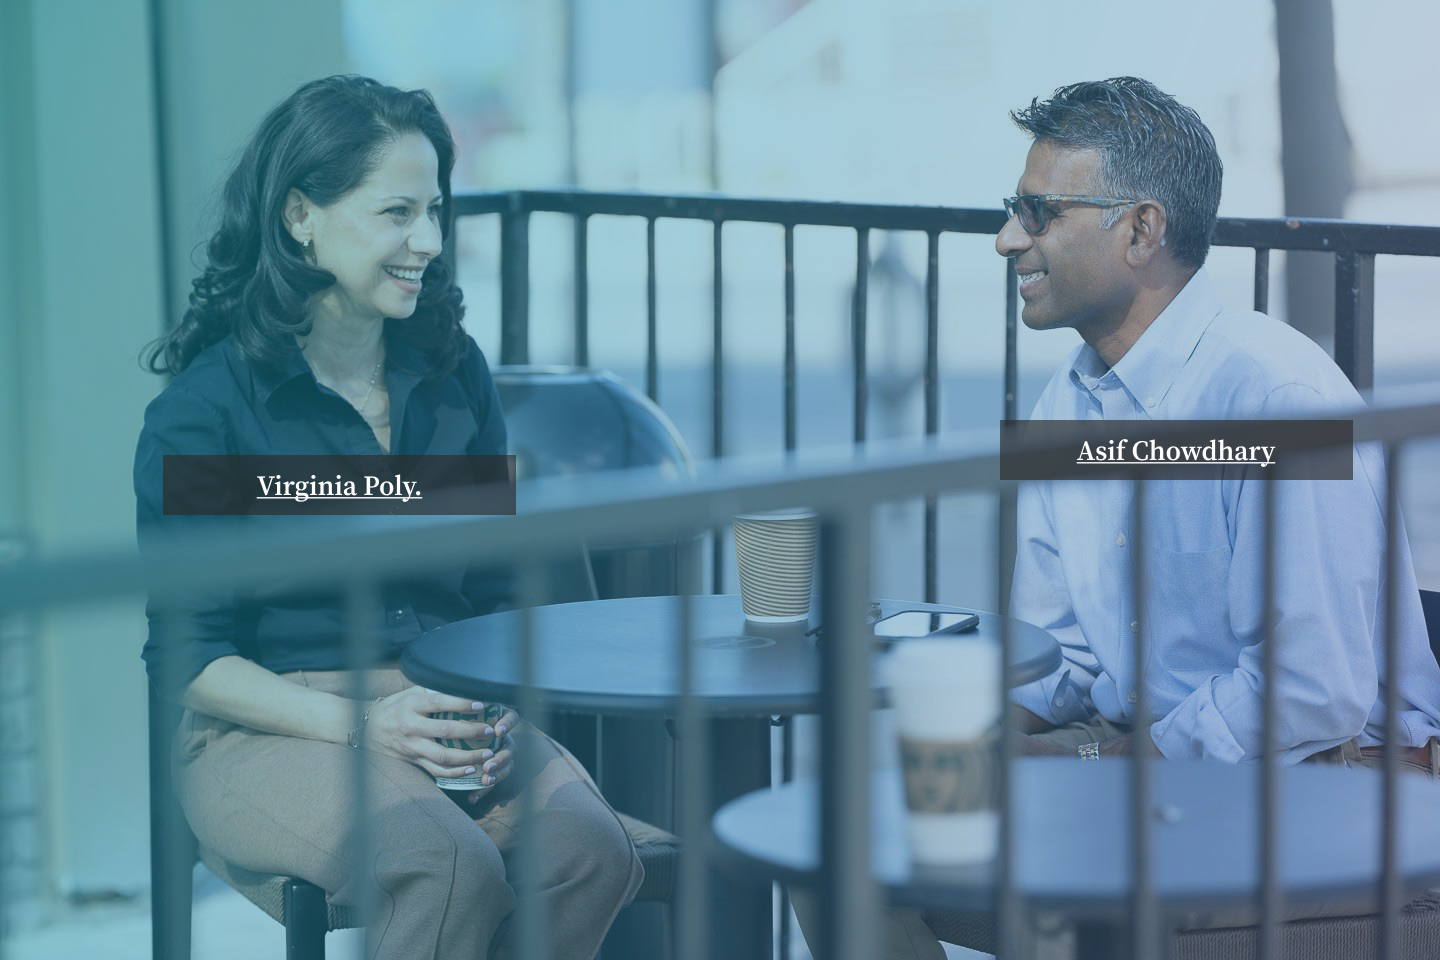
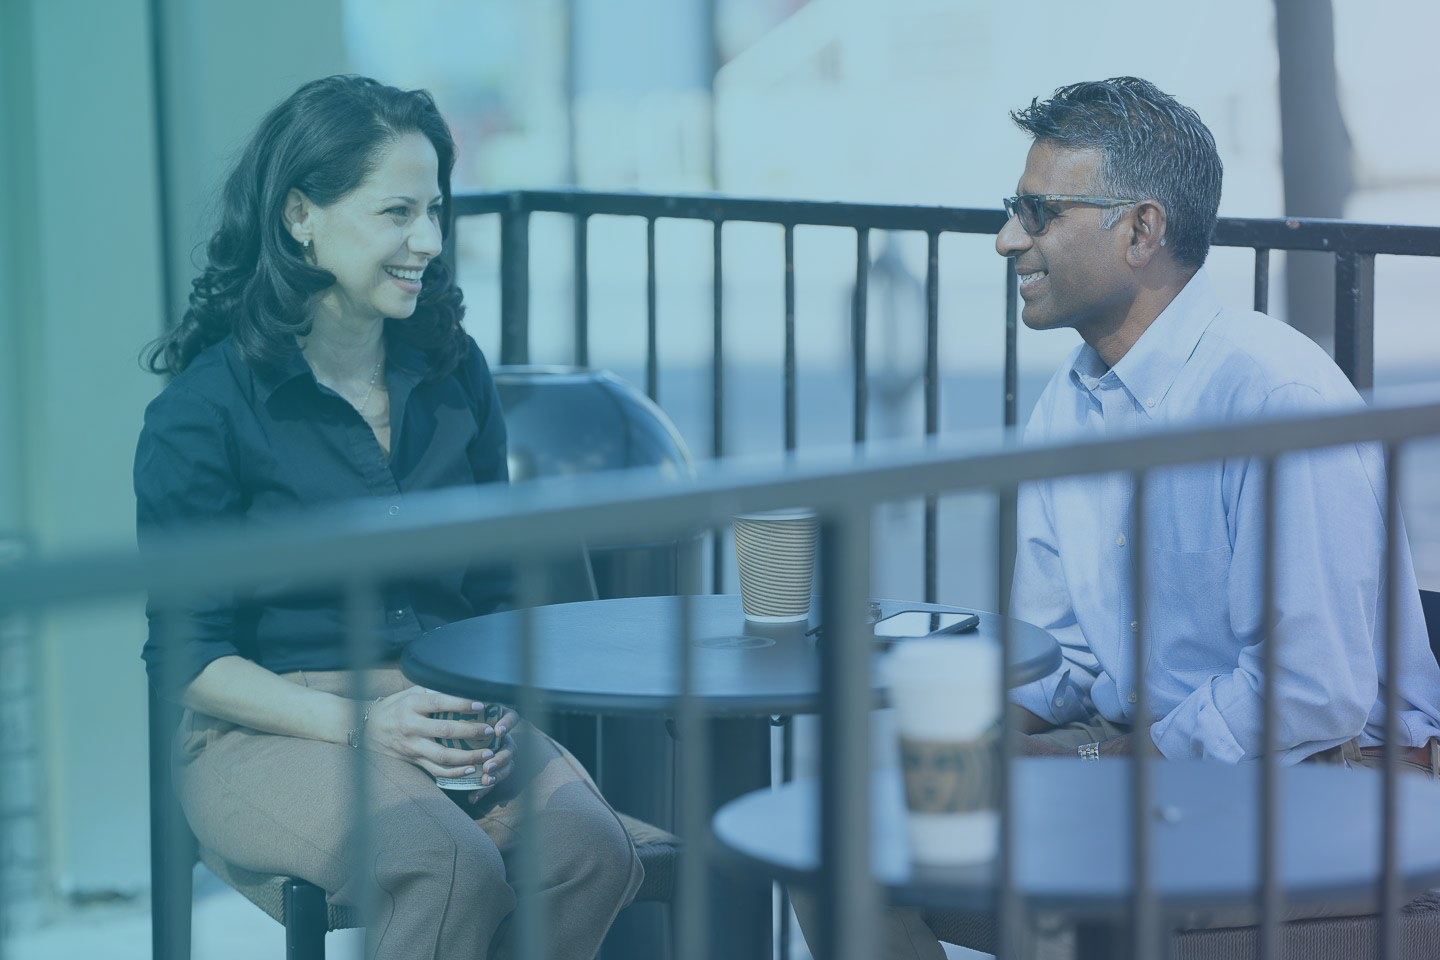
cominmg soon page chnages fix

Changed region(s): [[0.0938, 0.4688, 0.375, 0.5625], [0.6875, 0.4375, 0.9375, 0.5]]

diff --git a/Coming Soon/style.css b/Coming Soon/style.css
@@ -295,6 +295,7 @@ p.collision-text-para {
     line-height: 34px;
     font-weight: 400;
     font-family: 'Arial';
+    margin-bottom: 26px;
 }
 
 .bottom-sec-coming {
@@ -367,6 +368,29 @@ p.bottom-text-coming {
 
 .laptop-tabledata {
     padding-top: 50px;
+}
+
+.founder-name {
+    display: flex;
+    justify-content: space-between;
+    padding-top: 200px;
+    position: relative;
+}
+
+.name-left-founder,
+.name-right-founder {
+    background: #2B2B2BA6;
+    min-width: 353px;
+    text-align: center;
+    padding: 15px 0;
+}
+
+.left-founder,
+.right-founder {
+    font-size: 28px;
+    color: var(--color-white);
+    font-family: 'Arial';
+    font-weight: 600;
 }
 
 
@@ -494,6 +518,7 @@ p.text-cmingsoon-sucess {
     .collosion-btn {
         font-size: 20px;
         line-height: 30px;
+        margin-bottom: 20px;
     }
     section.comming-soon {
         padding: 50px 0 0px;
@@ -583,6 +608,7 @@ p.text-cmingsoon-sucess {
     p.collision-text-para {
         font-size: 16px;
         line-height: 25px;
+        margin-bottom: 10px;
     }
     .collosion-btn {
         font-size: 16px;
@@ -616,5 +642,28 @@ p.text-cmingsoon-sucess {
     .bottom-sec-coming {
         background: none;
         height: auto;
+    }
+    .founder-name {
+        padding: 0;
+    }
+    .name-left-founder {
+        position: absolute;
+        top: -110px;
+    }
+    .name-left-founder,
+    .name-right-founder {
+        background: #2B2B2BA6;
+        min-width: 142px;
+        text-align: center;
+        padding: 11px 10px;
+    }
+    .name-right-founder {
+        position: absolute;
+        top: -150px;
+        right: -5px;
+    }
+    .left-founder,
+    .right-founder {
+        font-size: 18px;
     }
 }

diff --git a/Coming Soon/coming-soon.html b/Coming Soon/coming-soon.html
@@ -104,7 +104,17 @@
                 <p class="bottom-heading-coming">Meet the founder</p>
                 <p class="bottom-text-coming">Founded by well-known and seasoned experts in the recruitment and talent industry, the platform benefits from deep expertise and experience hiring top talent for hundreds of top brands and organizations across North America</p>
             </div>
-            <img src="./image/bottom-img.png" alt="" class="mbl-group">
+            <img src="./image/meet-founder.png" alt="" class="mbl-group">
+            <div class="container container-site">
+                <div class="founder-name">
+                    <div class="name-left-founder">
+                        <a href="#" class="left-founder">Virginia Poly.</a>
+                    </div>
+                    <div class="name-right-founder">
+                        <a href="#" class="right-founder">Asif Chowdhary</a>
+                    </div>
+                </div>
+            </div>
         </section>
         <!-------popup for coming soon-->
         <!-- <section class="model-popup-comingsoon wishlist-box hide-model-popup">
